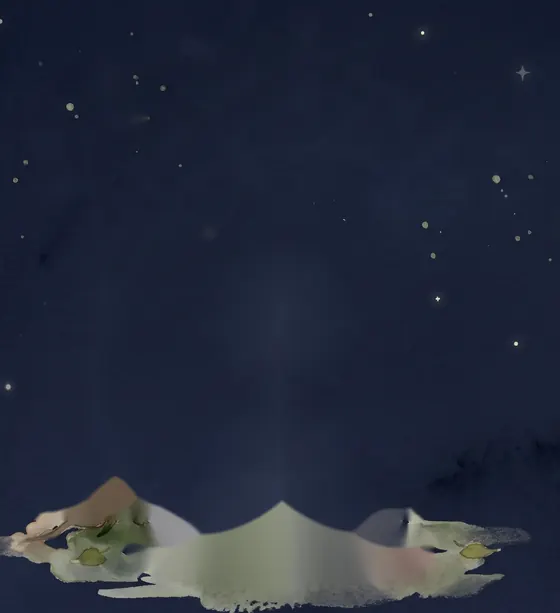
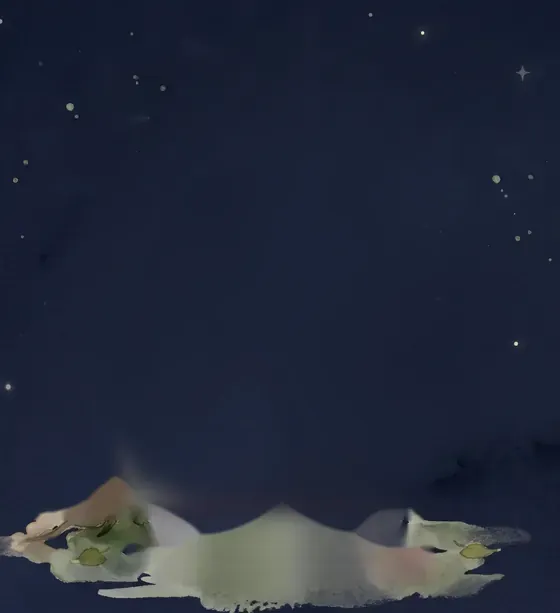
다크모드 후광을 동자승 뒤로, 밤 그림 레이어 정리
Claude-Session: https://claude.ai/code/session_01UAJQBENZg7XMnvcHYyBK2f

Changed region(s): [[0.2125, 0.7439, 0.3339, 0.8369], [0.4554, 0.8059, 0.5464, 0.8679]]

diff --git a/index.html b/index.html
@@ -51,8 +51,6 @@ header{display:flex;flex-direction:column;gap:2px;padding-block:4px 4px;padding-
 .art.shine .halo{animation:halo 5.2s ease-out forwards}
 .art.shine .halo::after{animation:ring 3.4s ease-out .5s forwards}
 @keyframes halo{0%{opacity:0;transform:translate(-50%,-50%) scale(.55)}24%{opacity:1;transform:translate(-50%,-50%) scale(1)}55%{opacity:.85;transform:translate(-50%,-50%) scale(1.03)}100%{opacity:0;transform:translate(-50%,-50%) scale(1.08)}}
-@media (prefers-color-scheme: dark){:root:not([data-theme="light"]) .art .halo{z-index:4;mix-blend-mode:screen}}
-:root[data-theme="dark"] .art .halo{z-index:4;mix-blend-mode:screen}
 @keyframes ring{0%{opacity:0;transform:scale(.7)}25%{opacity:.75}100%{opacity:0;transform:scale(1.4)}}
 .art .tree{transform-origin:18% 83%;animation:sway 30s ease-in-out 3s infinite}
 .art .monkimg{transform-origin:50% 92%}

diff --git a/sw.js b/sw.js
@@ -1,4 +1,4 @@
-const V="hanjul-v2";
+const V="hanjul-v3";
 const CORE=["./","./index.html","./manifest.webmanifest","./img/tree.webp","./img/monk.webp","./img/dbase.webp","./img/dtree.webp","./img/dmonk.webp","./icons/icon-192.png","./icons/icon-512.png","./icons/apple-touch-icon.png","./icons/favicon.png"];
 self.addEventListener("install",e=>{e.waitUntil(caches.open(V).then(c=>c.addAll(CORE)).then(()=>self.skipWaiting()))});
 self.addEventListener("activate",e=>{e.waitUntil(caches.keys().then(ks=>Promise.all(ks.filter(k=>k!==V).map(k=>caches.delete(k)))).then(()=>self.clients.claim()))});
